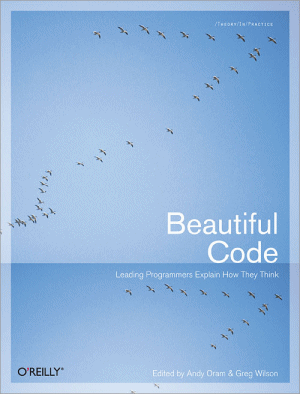
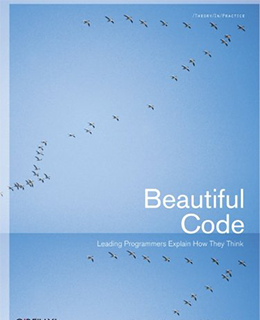
Clean up reading layout and images

diff --git a/reading.html b/reading.html
@@ -48,64 +48,60 @@
 				<p>Here are some books that I've read that have helped me grow professionally.</p>
 			</aside>
 
-			<!--
-				TODO: Need to optimize images, ensure all are high-quality
-			-->
-
 			<div column="7">
-				<a class="tile -book" href="http://amzn.to/2i7KItg" title="Beautiful Code on Amazon" target="_blank">
+				<a class="tile" href="http://amzn.to/2i7KItg" title="Beautiful Code on Amazon" target="_blank">
 					<img src="images/reading/beautiful-code.png" alt="Beautiful Code">
 				</a>
 
-				<a class="tile -book" href="http://amzn.to/2i7KLFs" title="" target="_blank">
+				<a class="tile" href="http://amzn.to/2i7KLFs" title="" target="_blank">
 					<img src="images/reading/code.jpg" alt="Code">
 				</a>
 
-				<a class="tile -book" href="http://amzn.to/2j6QidZ" title="Don't Make Me Think on Amazon" target="_blank">
+				<a class="tile" href="http://amzn.to/2j6QidZ" title="Don't Make Me Think on Amazon" target="_blank">
 					<img src="images/reading/dont-make-me-think.jpg" alt="Don't Make Me Think">
 				</a>
 
-				<a class="tile -book" href="http://amzn.to/2isqZlI" title="Even Faster Websites on Amazon" target="_blank">
+				<a class="tile" href="http://amzn.to/2isqZlI" title="Even Faster Websites on Amazon" target="_blank">
 					<img src="images/reading/faster-websites.jpg" alt="Even Faster Websites">
 				</a>
 
-				<a class="tile -book" href="http://amzn.to/2j6JrkR" title="JavaScript Data Structures on Amazon" target="_blank">
+				<a class="tile" href="http://amzn.to/2j6JrkR" title="JavaScript Data Structures on Amazon" target="_blank">
 					<img src="images/reading/javascript-data-structures.jpg" alt="JavaScript Data Structures">
 				</a>
 
-				<a class="tile -book" href="http://amzn.to/2j6O26E" title="100 Things Every Designer Should Know on Amazon" target="_blank">
+				<a class="tile" href="http://amzn.to/2j6O26E" title="100 Things Every Designer Should Know on Amazon" target="_blank">
 					<img src="images/reading/100-things.jpg" alt="100 Things Every Designer Should Know">
 				</a>
 
-				<a class="tile -book" href="http://amzn.to/2j6Lu8g" title="Masterminds of Programming on Amazon" target="_blank">
+				<a class="tile" href="http://amzn.to/2j6Lu8g" title="Masterminds of Programming on Amazon" target="_blank">
 					<img src="images/reading/masterminds-of-programming.jpg" alt="Masterminds of Programming">
 				</a>
 
-				<a class="tile -book" href="http://amzn.to/2j6MZDE" title="Neuro Web Design on Amazon" target="_blank">
+				<a class="tile" href="http://amzn.to/2j6MZDE" title="Neuro Web Design on Amazon" target="_blank">
 					<img src="images/reading/neuro-web-design.jpg" alt="Neuro Web Design">
 				</a>
 
-				<a class="tile -book" href="http://amzn.to/2i3Nz8a" title="Principles of Object-Oriented JavaScript on Amazon" target="_blank">
+				<a class="tile" href="http://amzn.to/2i3Nz8a" title="Principles of Object-Oriented JavaScript on Amazon" target="_blank">
 					<img src="images/reading/oo-javascript.jpg" alt="Principles of Object-Oriented JavaScript">
 				</a>
 
-				<a class="tile -book" href="http://amzn.to/2j6K5Pf" title="Pragmatic Thinking and Learning on Amazon" target="_blank">
+				<a class="tile" href="http://amzn.to/2j6K5Pf" title="Pragmatic Thinking and Learning on Amazon" target="_blank">
 					<img src="images/reading/pragmatic-thinking-and-learning.jpg" alt="Pragmatic Thinking and Learning">
 				</a>
 
-				<a class="tile -book" href="http://amzn.to/2j6Ka5v" title="Pragmatic Thinking and Learning on Amazon" target="_blank">
+				<a class="tile" href="http://amzn.to/2j6Ka5v" title="Pragmatic Thinking and Learning on Amazon" target="_blank">
 					<img src="images/reading/seven-languages.jpg" alt="Seven Languages in Seven Weeks">
 				</a>
 
-				<a class="tile -book" href="http://amzn.to/2i7UUCd" title="Smashing CSS on Amazon" target="_blank">
+				<a class="tile" href="http://amzn.to/2i7UUCd" title="Smashing CSS on Amazon" target="_blank">
 					<img src="images/reading/smashing-css.jpg" alt="Smashing CSS">
 				</a>
 
-				<a class="tile -book" href="http://amzn.to/2i7F3DJ" title="The Art of SEO on Amazon" target="_blank">
+				<a class="tile" href="http://amzn.to/2i7F3DJ" title="The Art of SEO on Amazon" target="_blank">
 					<img src="images/reading/seo.jpg" alt="The Art of SEO">
 				</a>
 
-				<a class="tile -book" href="http://amzn.to/2j6V2jU" title="Troubleshooting Ubuntu Server on Amazon" target="_blank">
+				<a class="tile" href="http://amzn.to/2j6V2jU" title="Troubleshooting Ubuntu Server on Amazon" target="_blank">
 					<img src="images/reading/ubuntu-server.jpg" alt="Troubleshooting Ubuntu Server">
 				</a>
 			</div>

diff --git a/dist/site.css b/dist/site.css
@@ -1116,13 +1116,16 @@ dd {
     border-bottom: none;
     text-decoration: none; }
   .tile img {
-    height: auto;
     max-width: 100%;
     -webkit-transition: opacity 225ms;
     transition: opacity 225ms;
+    width: 100%;
     -webkit-backface-visibility: hidden; }
     .tile img:hover {
       opacity: .75; }
+    @media (max-width: 480px) {
+      .tile img {
+        margin-bottom: 3rem; } }
   .tile:nth-of-type(1) {
     -webkit-animation-delay: 0.22s;
             animation-delay: 0.22s; }
@@ -1177,21 +1180,6 @@ dd {
   .tile:nth-of-type(18) {
     -webkit-animation-delay: 3.96s;
             animation-delay: 3.96s; }
-  @media (min-width: 768px) {
-    .tile.-book {
-      float: left; } }
-  @media (min-width: 960px) {
-    .tile.-book {
-      opacity: 0;
-      width: 50%; } }
-  .tile.-book img {
-    display: block;
-    height: auto;
-    margin: 0 auto;
-    width: 100%; }
-    @media (max-width: 768px) {
-      .tile.-book img {
-        margin-bottom: 0.75rem; } }
 
 @-webkit-keyframes fadeIn {
   from {

diff --git a/src/_custom.scss b/src/_custom.scss
@@ -365,12 +365,16 @@ dd {
   }
 
   img {
-    height: auto;
     max-width: 100%;
     transition: opacity ($transition-duration * 1.5);
+    width: 100%;
     -webkit-backface-visibility: hidden;
 
     &:hover { opacity: .75; }
+
+    @media (--small-max) {
+      margin-bottom: $spacing-m;
+    }
   }
 
   @for $i from 1 through 18 {
@@ -378,27 +382,6 @@ dd {
       @extend %tile-animation;
 
       animation-delay: $i * 0.22s;
-    }
-  }
-
-  // Book Modifier
-  &.-book {
-    @media (--medium) {
-      float: left;
-    }
-
-    @media (--large) {
-      opacity: 0;
-      width: 50%;
-    }
-
-    img {
-      display: block;
-      height: auto;
-      margin: 0 auto;
-      width: 100%;
-
-      @media (--medium-max) { margin-bottom: $spacing-xs; }
     }
   }
 }

diff --git a/src/_settings.scss b/src/_settings.scss
@@ -38,6 +38,7 @@ $transition-duration: 150ms;
 // Use as @media (--medium) { … }
 @custom-media --extra-small (width <= 480px);
 @custom-media --small (width >= 480px);
+@custom-media --small-max (width <= 480px);
 @custom-media --medium (width >= 768px);
 @custom-media --medium-max (width <= 768px);
 @custom-media --large (width >= 960px);
